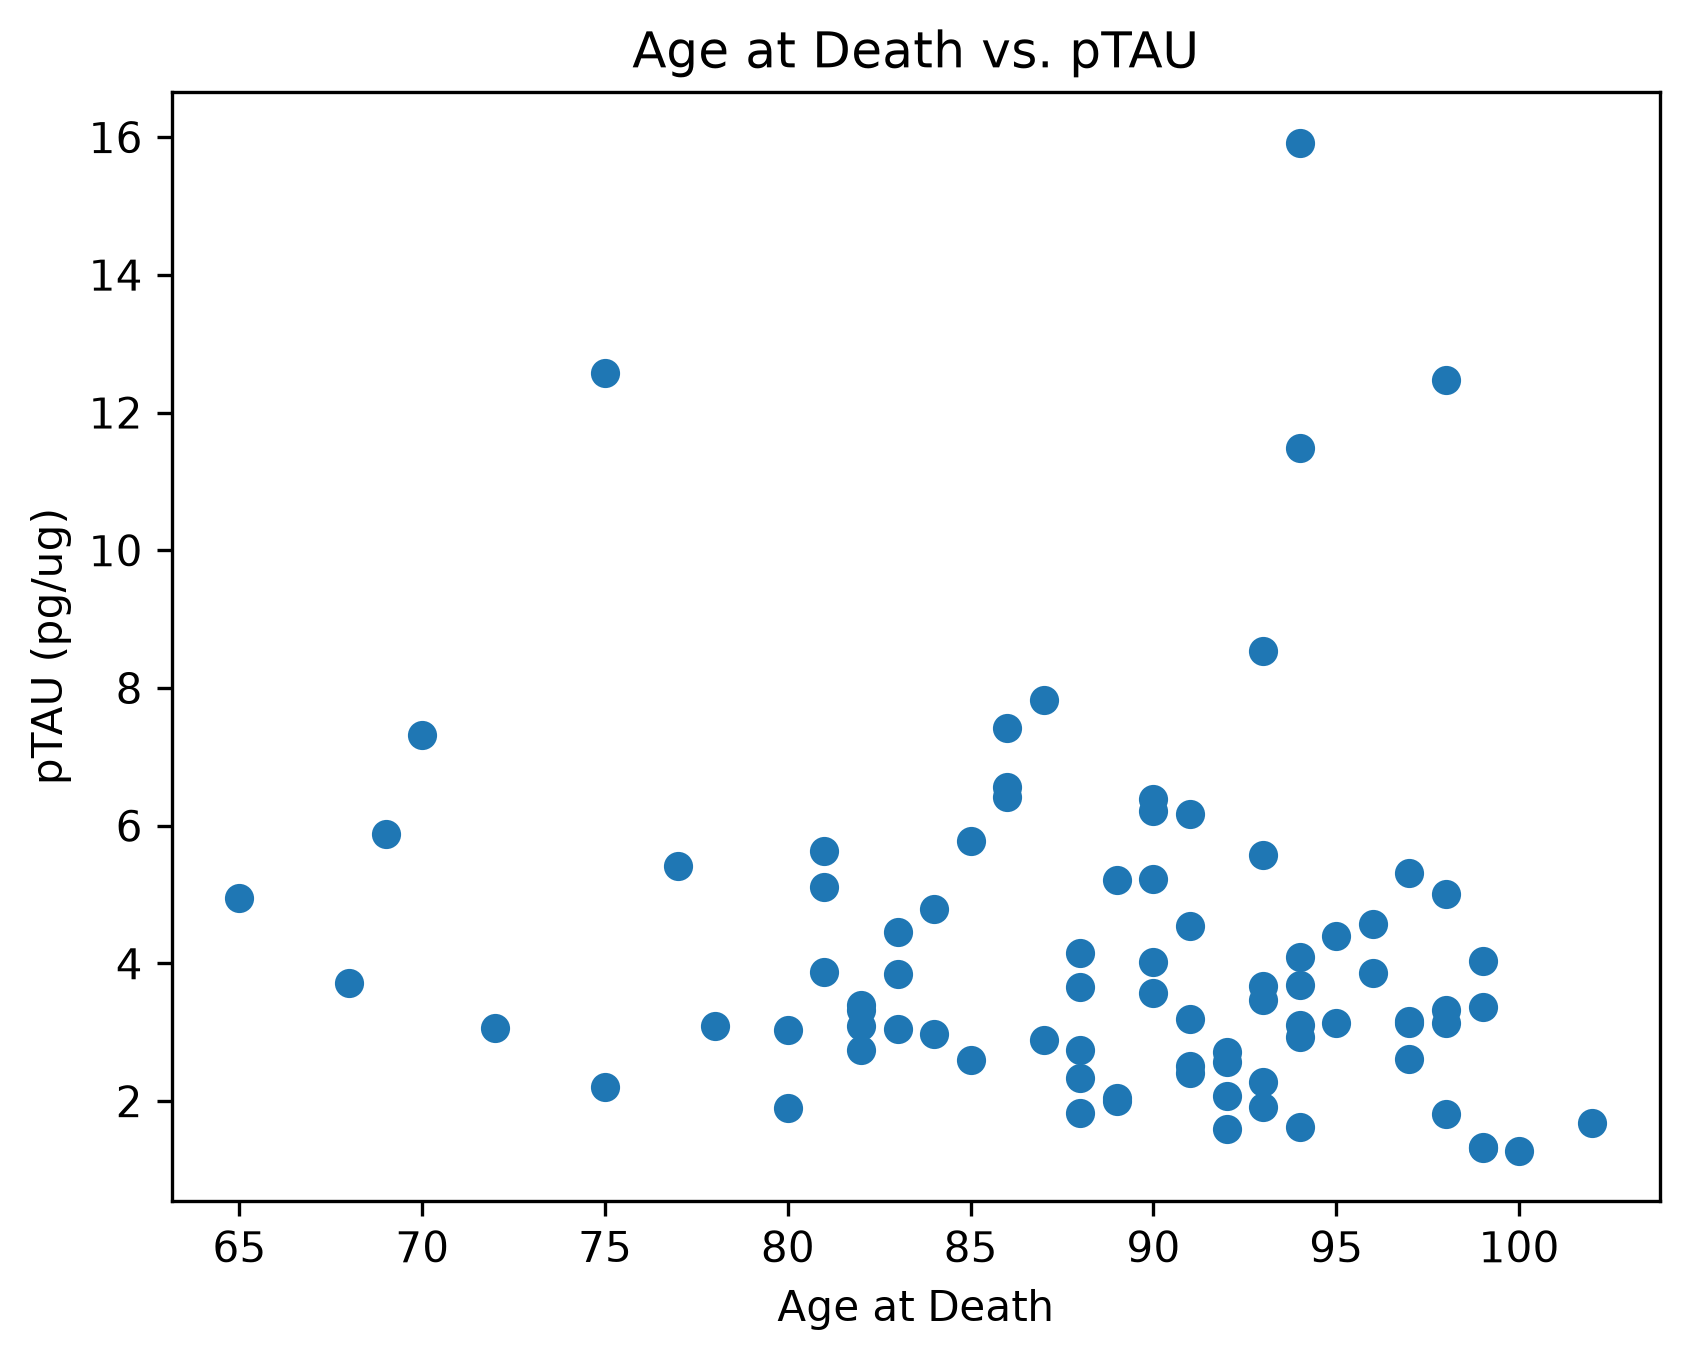
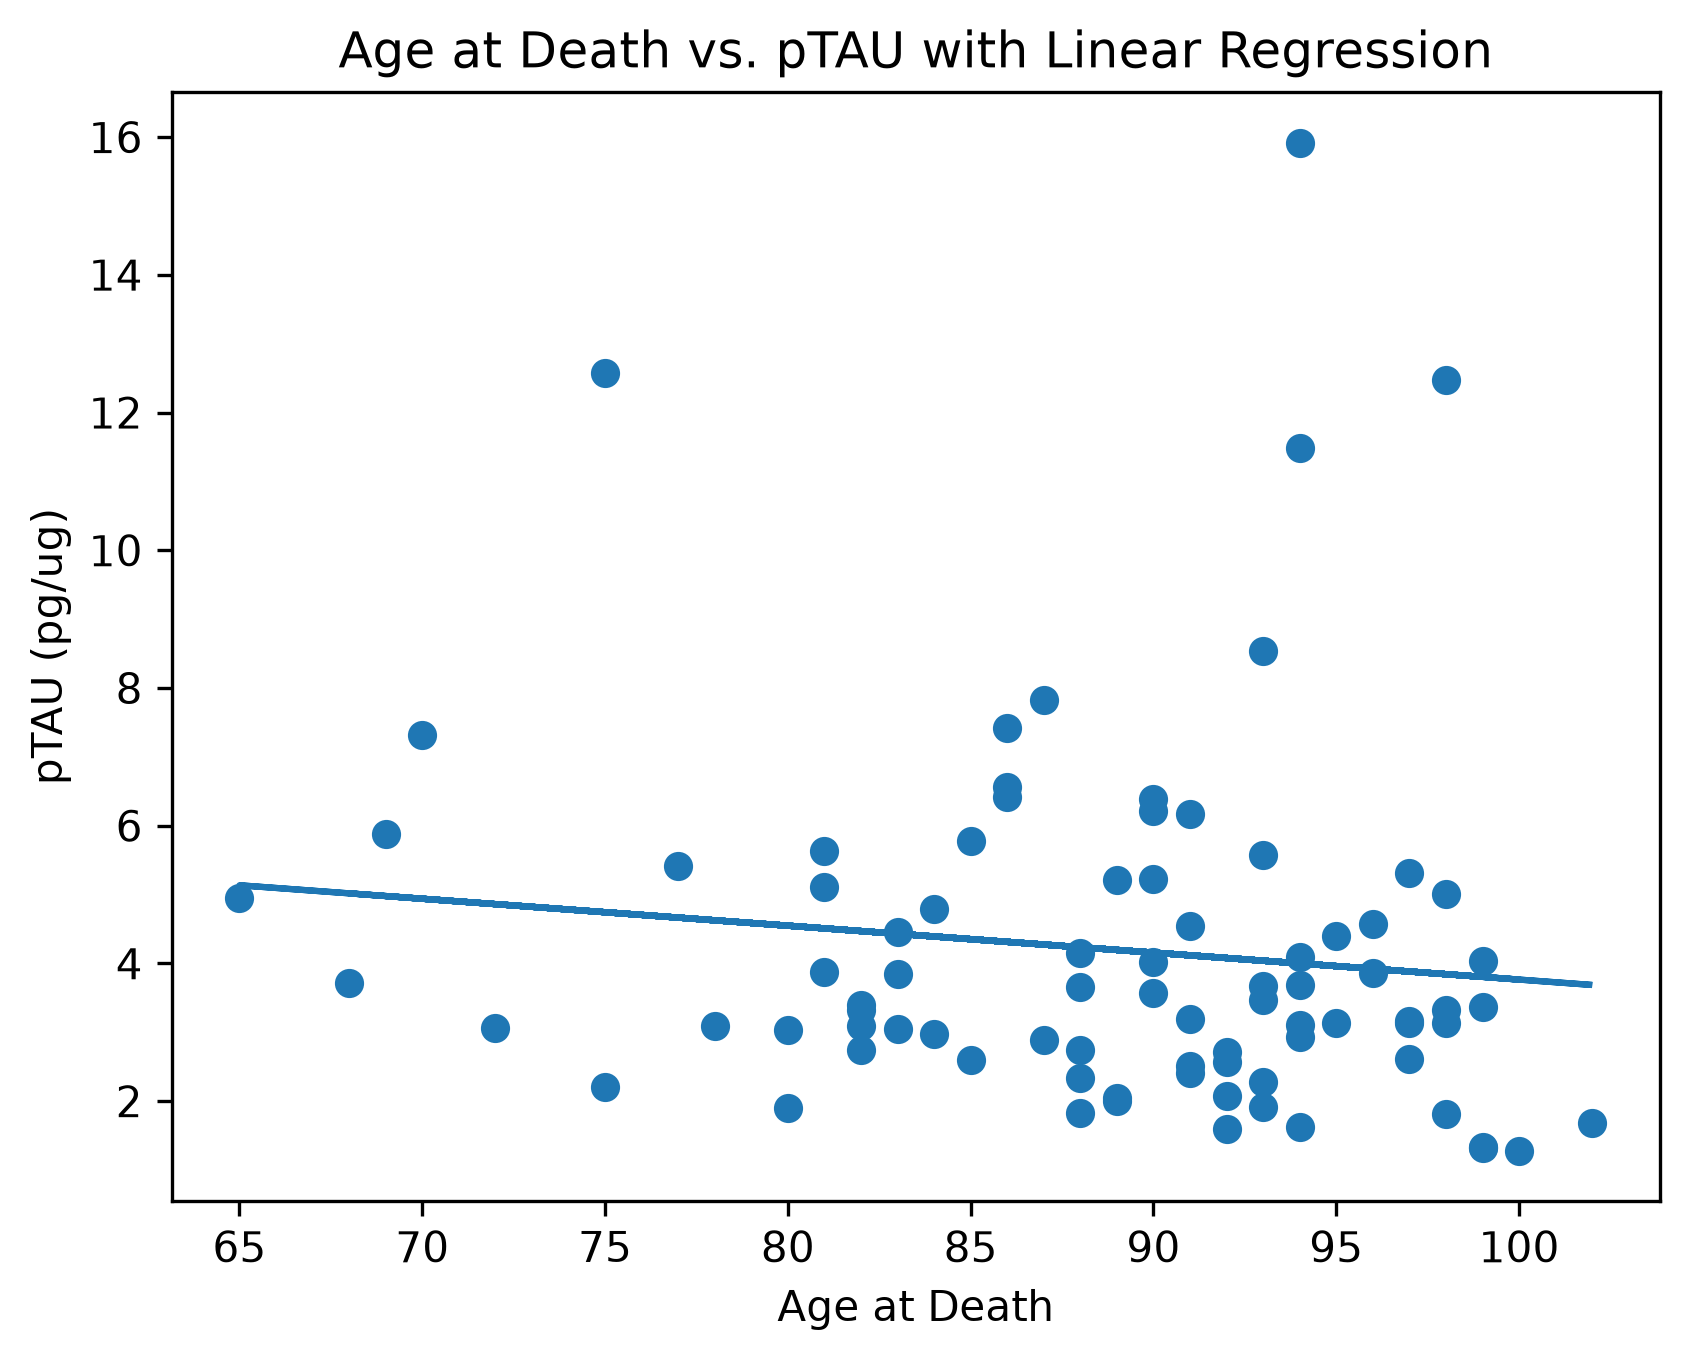
Finished data analysis
I made the 3rd graph that compares cognitive status and ptau and then did the linear regression line. Then i went and filled out the notebook using our finalized code

diff --git a/main.py b/main.py
@@ -2,6 +2,8 @@ from patient import Patient
 
 import matplotlib.pyplot as plt
 import statistics
+from scipy import stats
+
 # Load patient data from the CSV file
 Patient.instantiate_from_csv("Metadata and Protein Data for Module 1.csv")
 # Print the number of patients and one example patient
@@ -31,6 +33,12 @@ groups = ["Female", "Male"]
 means = [female_mean, male_mean]
 standard_deviations = [female_sd, male_sd]
 
+# Compare female and male pTAU levels using an independent t-test
+t_statistic, p_value = stats.ttest_ind(female_ptau, male_ptau)
+
+print("Female vs. Male pTAU t-statistic:", t_statistic)
+print("Female vs. Male pTAU p-value:", p_value)
+
 plt.bar(groups, means, yerr=standard_deviations, capsize=5)
 
 plt.xlabel("Sex")
@@ -38,13 +46,67 @@ plt.ylabel("Mean pTAU (pg/ug)")
 plt.title("Mean pTAU in Dementia Patients by Sex")
 
 plt.savefig("ptau_bar_graph.png", dpi=300, bbox_inches="tight")
-plt.close()
+plt.show()
+
+
+
 ages = [patient.age_at_death for patient in Patient.all_patients]
 ptau_values = [patient.ptau for patient in Patient.all_patients]
+
+# Calculate linear regression for age at death vs. pTAU
+slope, intercept, r_value, p_value, std_err = stats.linregress(ages, ptau_values)
+
+regression_line = [slope * age + intercept for age in ages]
+
+print("Age vs. pTAU slope:", slope)
+print("Age vs. pTAU intercept:", intercept)
+print("Age vs. pTAU R-squared:", r_value ** 2)
+print("Age vs. pTAU p-value:", p_value)
+
 plt.figure()
 plt.scatter(ages, ptau_values)
+plt.plot(ages, regression_line)
+
 plt.xlabel("Age at Death")
 plt.ylabel("pTAU (pg/ug)")
-plt.title("Age at Death vs. pTAU")
+plt.title("Age at Death vs. pTAU with Linear Regression")
+
 plt.savefig("age_vs_ptau_scatter.png", dpi=300, bbox_inches="tight")
+plt.show()
+
+
+
+# Filter patients by cognitive status
+dementia = Patient.filter("any", "Dementia")
+no_dementia = Patient.filter("any", "No dementia")
+
+# Get pTAU values for each cognitive status group
+dementia_ptau = [patient.ptau for patient in dementia]
+no_dementia_ptau = [patient.ptau for patient in no_dementia]
+
+t_statistic, p_value = stats.ttest_ind(dementia_ptau, no_dementia_ptau)
+
+print("Dementia vs. No dementia pTAU t-statistic:", t_statistic)
+print("Dementia vs. No dementia pTAU p-value:", p_value)
+
+# Calculate mean and standard deviation of pTAU for each group
+dementia_mean = statistics.mean(dementia_ptau)
+no_dementia_mean = statistics.mean(no_dementia_ptau)
+
+dementia_sd = statistics.stdev(dementia_ptau)
+no_dementia_sd = statistics.stdev(no_dementia_ptau)
+
+# Create bar graph
+groups = ["Dementia", "No dementia"]
+means = [dementia_mean, no_dementia_mean]
+standard_deviations = [dementia_sd, no_dementia_sd]
+
+plt.figure()
+plt.bar(groups, means, yerr=standard_deviations, capsize=5)
+
+plt.xlabel("Cognitive Status")
+plt.ylabel("Mean pTAU (pg/ug)")
+plt.title("Mean pTAU by Cognitive Status")
+
+plt.savefig("ptau_cognitive_status_bar_graph.png", dpi=300, bbox_inches="tight")
 plt.show()

diff --git a/patient.py b/patient.py
@@ -36,11 +36,15 @@ class Patient:
                     ptau=float(row["pTAU pg/ug"])
                 )
     @classmethod
-    def filter(cls, sex, cognitive_status):
+    def filter(cls, sex="any", cognitive_status="any"):
         filtered_patients = []
 
         for patient in cls.all_patients:
-            if patient.sex == sex and patient.cognitive_status == cognitive_status:
+            sex_matches = sex == "any" or patient.sex == sex
+            cognitive_status_matches = cognitive_status == "any" or patient.cognitive_status == cognitive_status
+
+            if sex_matches and cognitive_status_matches:
                 filtered_patients.append(patient)
 
         return filtered_patients
+    
